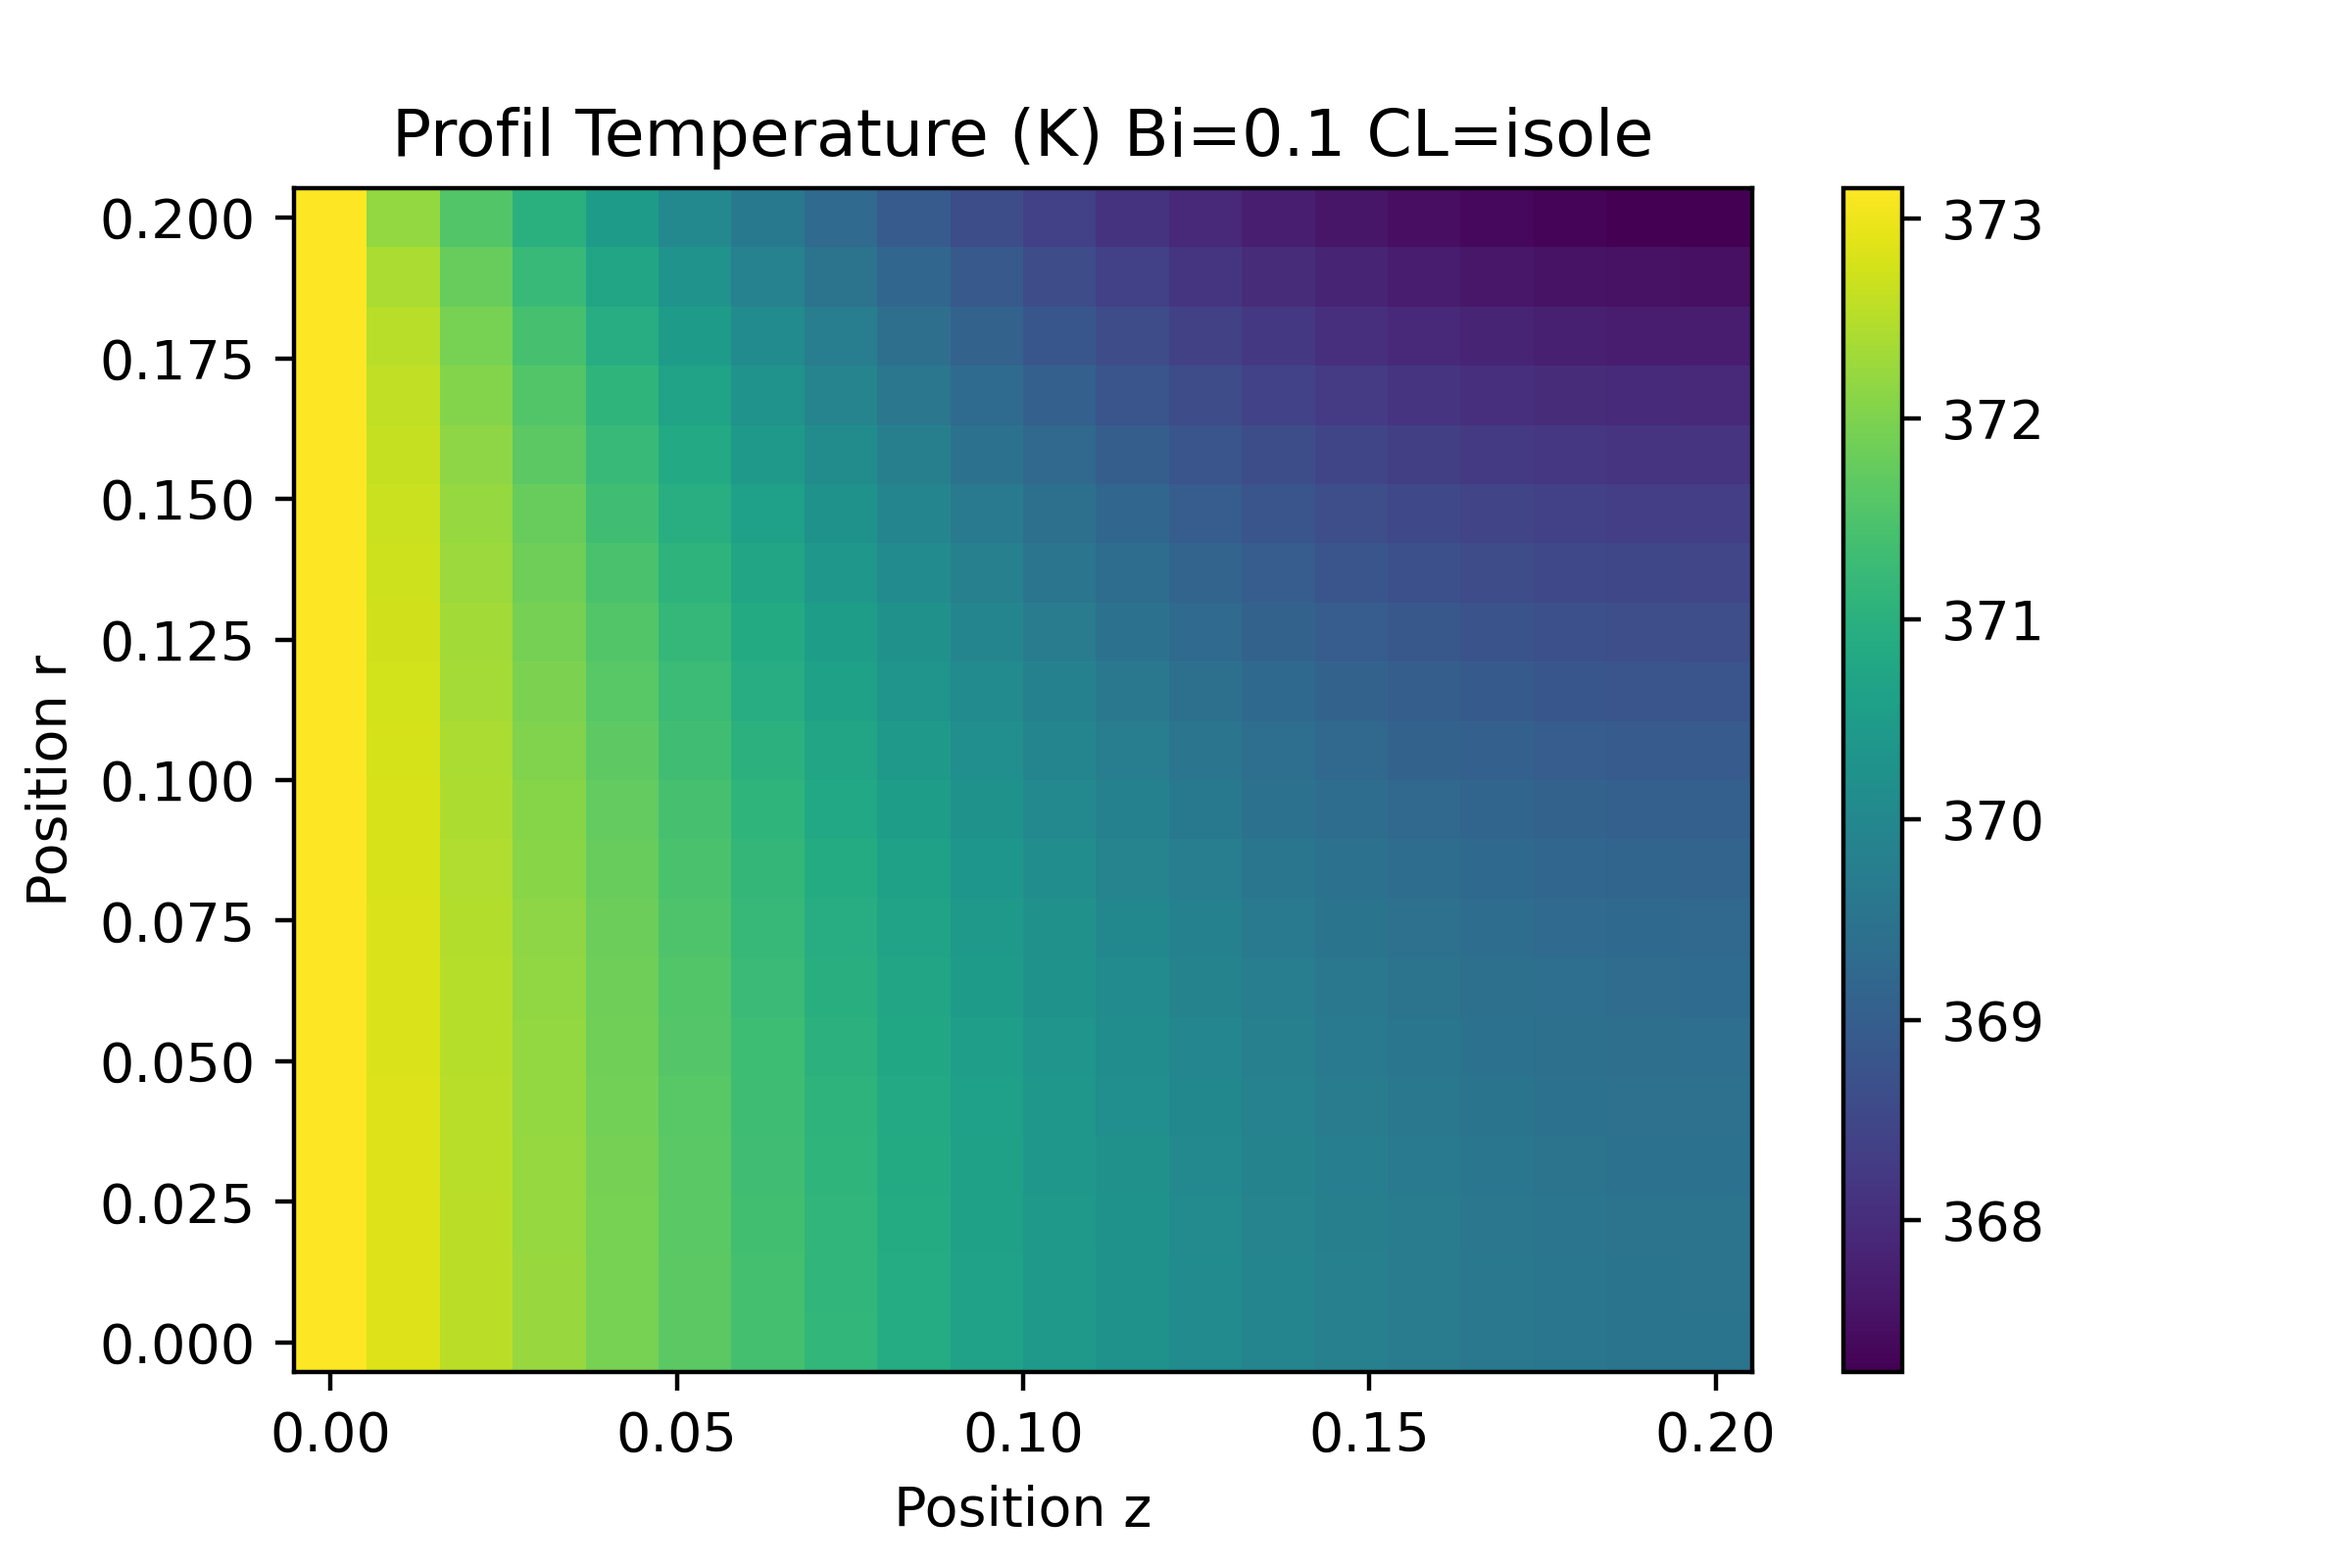
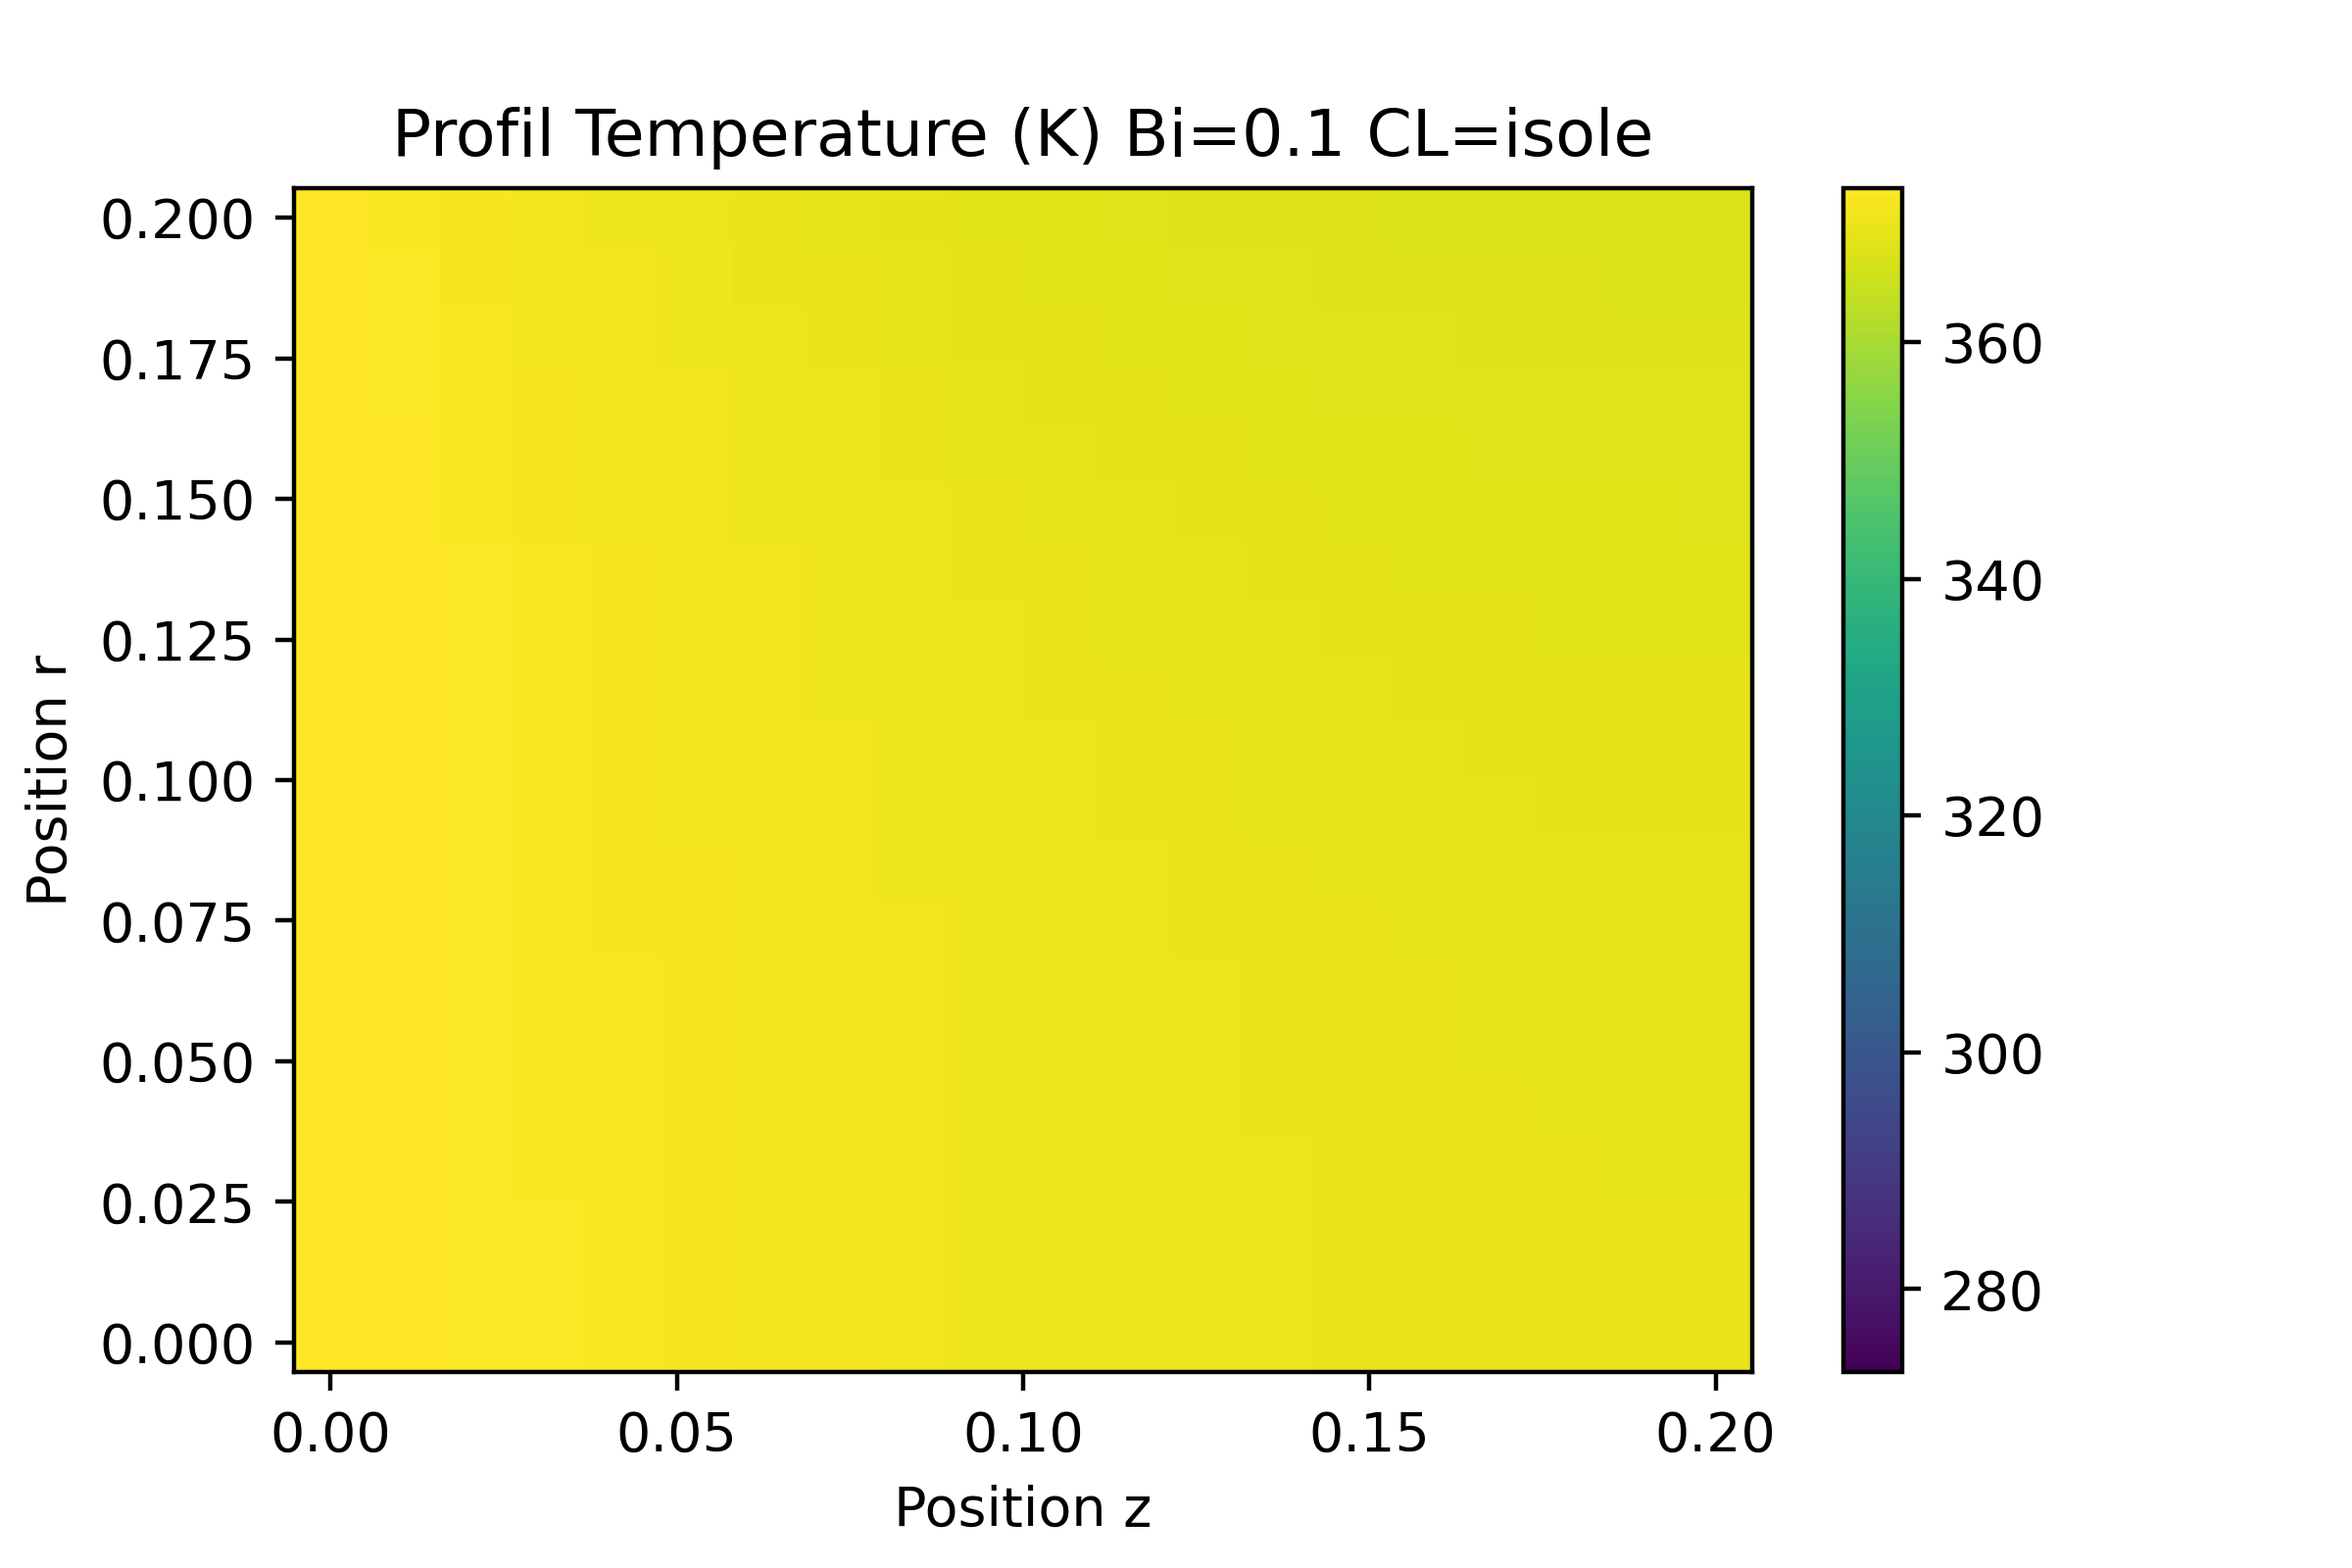
fix color bar graph

diff --git a/functions/analyses.py b/functions/analyses.py
@@ -118,8 +118,9 @@ def analyse_erreur(list_Bi,prm):
     erreur=[]
     for i in range(len(list_Bi)):
         erreur.append(abs(q_analytique[i]-q_contour_isole[i])/q_analytique[i]*100)
-    plt.title("Erreur entre analytique et isole flux contour")    
-    plt.plot(list_Bi,erreur,label="erreur")  
+    plt.title("Erreur entre analytique et isole flux contour")   
+    label_title = "erreur pour nr="+str(prm.nr)+" nz="+str(prm.nz)
+    plt.plot(list_Bi,erreur,label=label_title)  
     plt.ylabel("Pourcentage (%)")
     plt.xlabel("Bi")
     plt.legend()
@@ -286,7 +287,8 @@ def analyse_bonus(list_Bi, prm):
     X = [0,prm.L]       #Position selon l'axe des z (rayon)
     Y = [0,prm.R]       #Position selon l'axe des r
     x,y = position(X, Y, prm)    
-
+    min_val = 273
+    max_val = 373
     
     condition_limite = ["isole","convection"]
     for Bi_i in list_Bi:
@@ -297,7 +299,7 @@ def analyse_bonus(list_Bi, prm):
             c = np.linalg.solve(A,b)
             c_reshaped = c.reshape(prm.nz,prm.nr).transpose()
             fig,ax = plt.subplots(nrows=1,ncols=1)
-            fig1 = ax.pcolormesh(x,y, c_reshaped)
+            fig1 = ax.pcolormesh(x,y, c_reshaped, vmin=min_val, vmax=max_val)
             plt.colorbar(fig1, ax=ax)
             ax.set_title("Profil Temperature (K) Bi="+str(prm.Bi)+" CL="+str(prm.CL))
             ax.set_xlabel("Position z")
